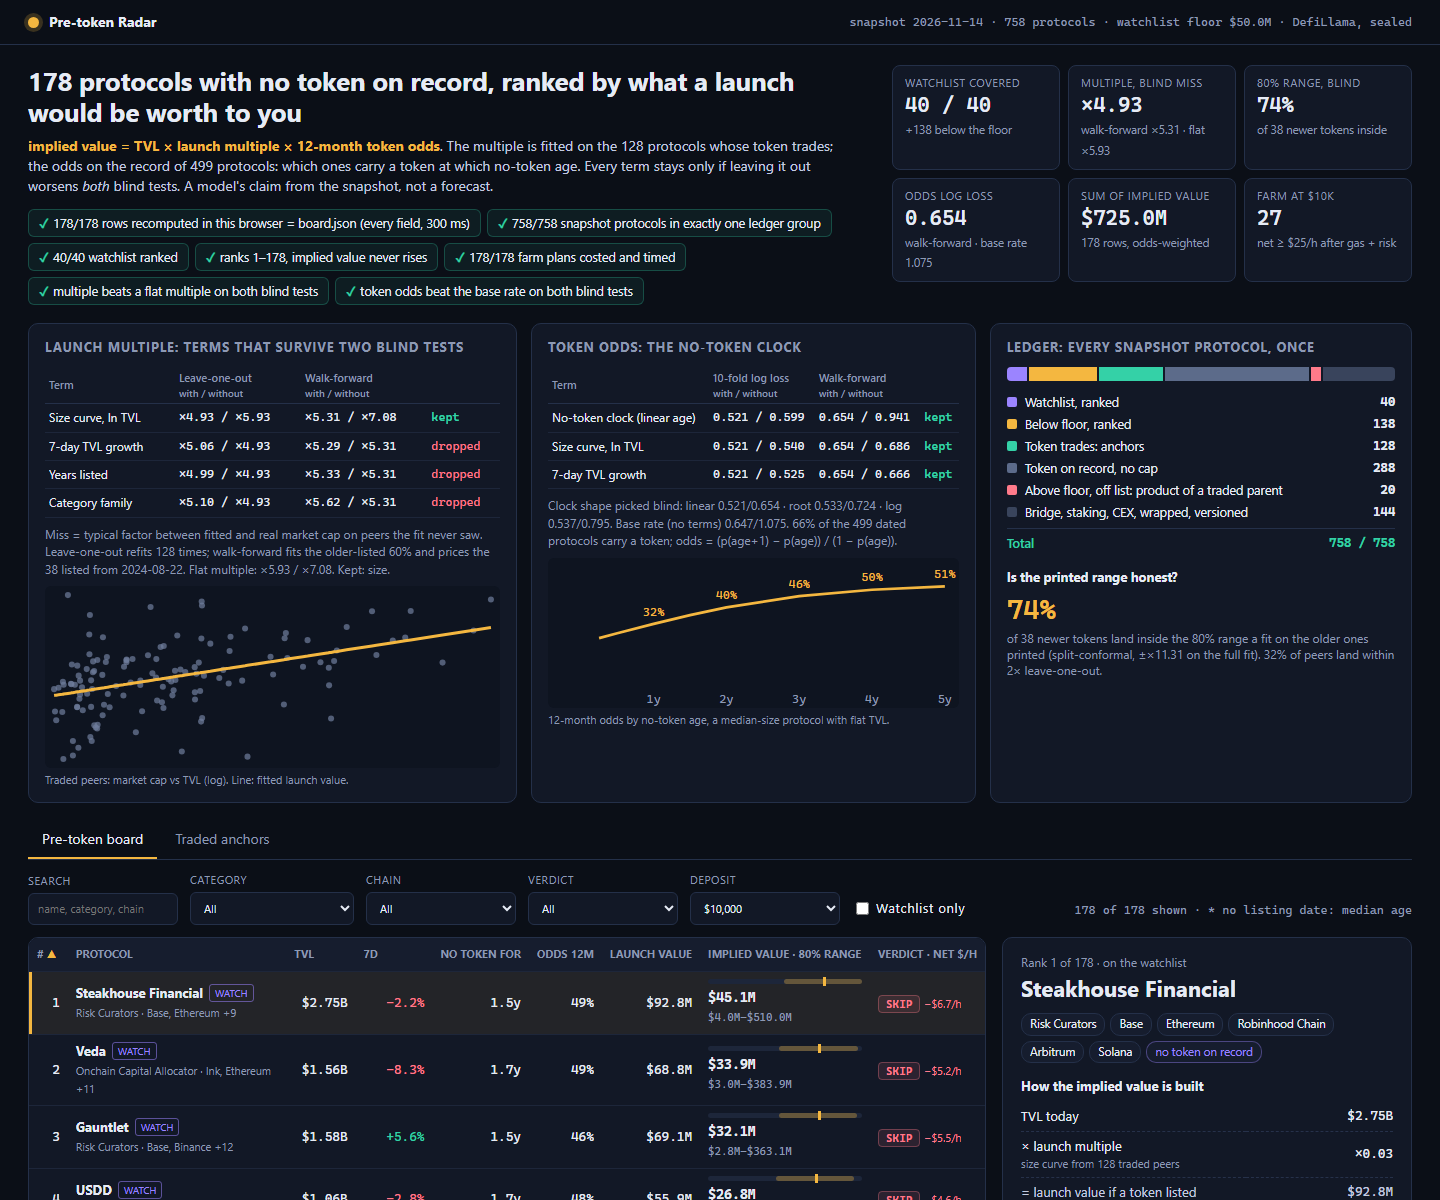
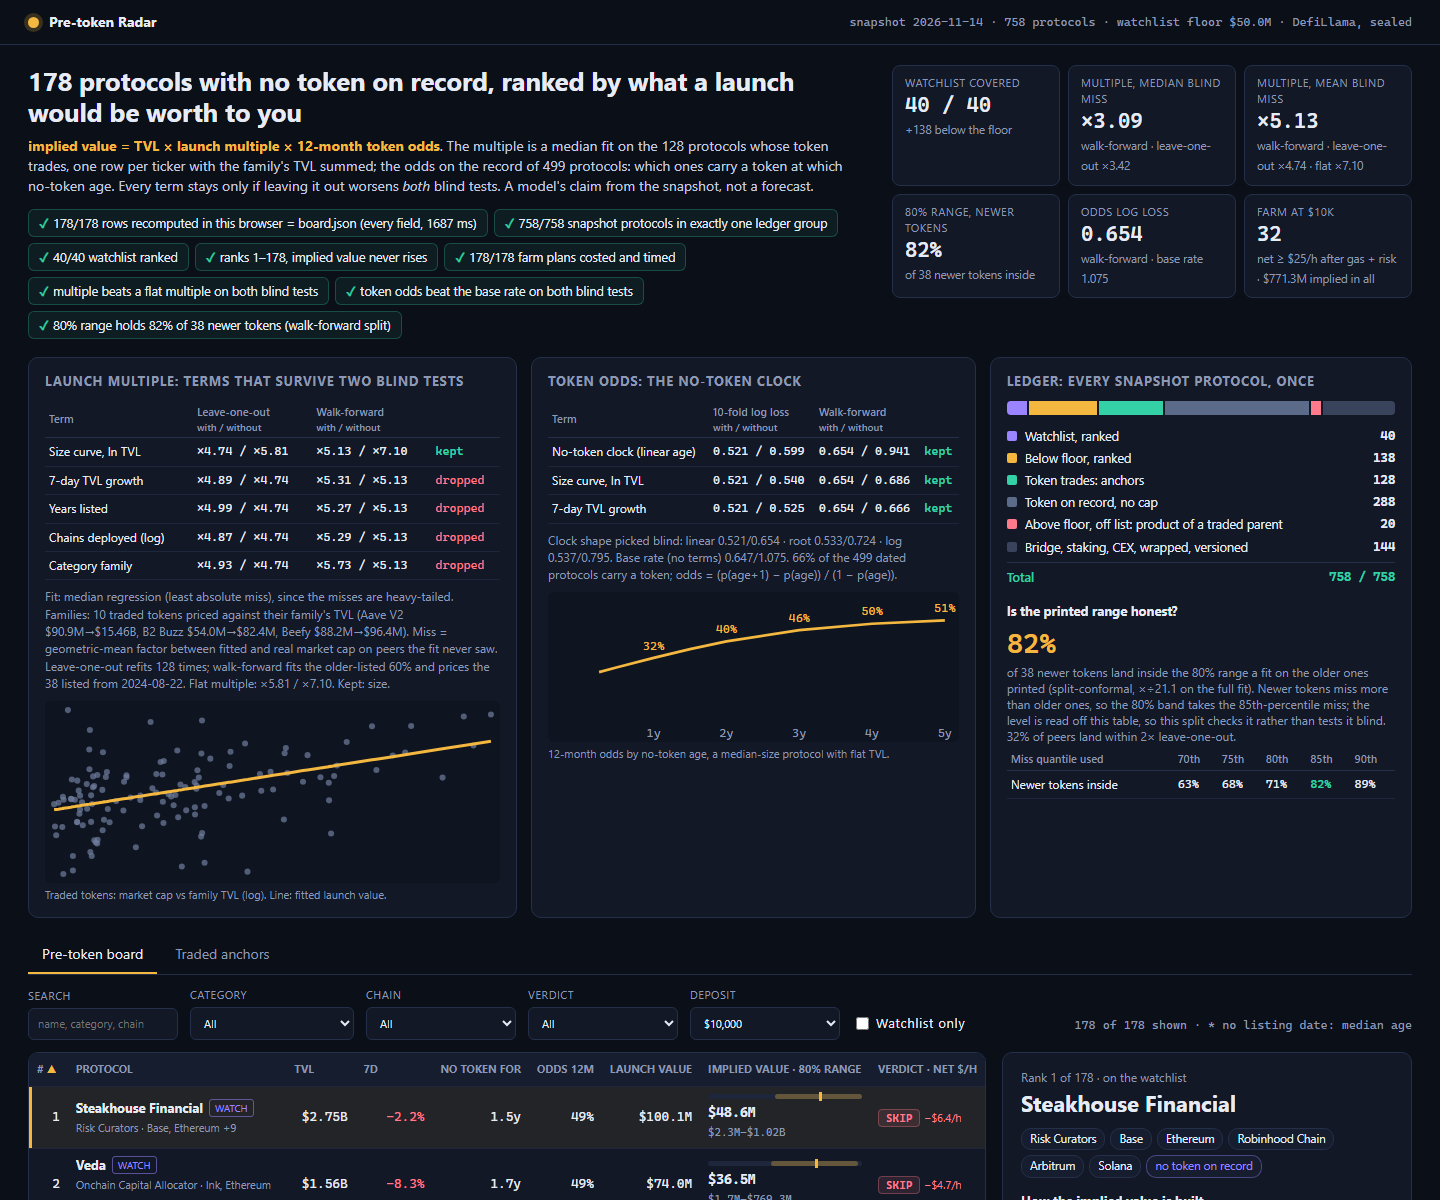
v5: median fit of the launch multiple, one row per ticker with family TVL summed; chains term tested; 80% band calibrated for drift to newer tokens with its coverage table; median and mean held-out miss on the cover

diff --git a/dashboard/app.js b/dashboard/app.js
@@ -27,31 +27,32 @@
     [plans === n, `${plans}/${n} farm plans costed and timed`],
     [v.final[0] < v.flat[0] && v.final[1] < v.flat[1], `multiple beats a flat multiple on both blind tests`],
     [o.final[0] < o.flat[0] && o.final[1] < o.flat[1], `token odds beat the base rate on both blind tests`],
+    [v.cover >= R.P.target, `80% range holds ${pct(v.cover)} of ${v.nTest} newer tokens (walk-forward split)`],
   ];
   $('checks').innerHTML = checks.map(([ok, t]) => `<li class="${ok ? 'ok' : 'bad'}"><b>${ok ? '✓' : '✗'}</b>${esc(t)}</li>`).join('');
 
   $('meta').textContent = `snapshot ${res.asOf} · ${res.total} protocols · watchlist floor ${usd(res.floor)} · DefiLlama, sealed`;
   $('headline').textContent = `${n} protocols with no token on record, ranked by what a launch would be worth to you`;
-  $('formula').innerHTML = `<b>implied value = TVL × launch multiple × 12-month token odds</b>. The multiple is fitted on the ${v.nPeers} protocols whose token trades; the odds on the record of ${o.n} protocols: which ones carry a token at which no-token age. Every term stays only if leaving it out worsens <i>both</i> blind tests. A model's claim from the snapshot, not a forecast.`;
+  $('formula').innerHTML = `<b>implied value = TVL × launch multiple × 12-month token odds</b>. The multiple is a median fit on the ${v.nPeers} protocols whose token trades, one row per ticker with the family's TVL summed; the odds on the record of ${o.n} protocols: which ones carry a token at which no-token age. Every term stays only if leaving it out worsens <i>both</i> blind tests. A model's claim from the snapshot, not a forecast.`;
 
   const ranked = rows.reduce((s, r) => s + r.value, 0);
   const farmN = rows.filter((r) => r.plan.verdict === 'FARM').length;
   const kpi = (k, val, sub) => `<div class="kpi"><span>${k}</span><b>${val}</b><em>${sub}</em></div>`;
   $('kpis').innerHTML = [
     kpi('Watchlist covered', `${watchRanked} / ${res.watchTotal}`, `+${n - watchRanked} below the floor`),
-    kpi('Multiple, blind miss', x2(v.final[0]), `walk-forward ${x2(v.final[1])} · flat ${x2(v.flat[0])}`),
-    kpi('80% range, blind', pct(v.cover), `of ${v.nTest} newer tokens inside`),
+    kpi('Multiple, median blind miss', `${x2(v.median.wf)}`, `walk-forward · leave-one-out ${x2(v.median.loo)}`),
+    kpi('Multiple, mean blind miss', x2(v.final[1]), `walk-forward · leave-one-out ${x2(v.final[0])} · flat ${x2(v.flat[1])}`),
+    kpi('80% range, newer tokens', pct(v.cover), `of ${v.nTest} newer tokens inside`),
     kpi('Odds log loss', o.final[1].toFixed(3), `walk-forward · base rate ${o.flat[1].toFixed(3)}`),
-    kpi('Sum of implied value', usd(ranked), `${n} rows, odds-weighted`),
-    kpi('FARM at $10k', `${farmN}`, `net ≥ $${R.P.farmRate}/h after gas + risk`),
+    kpi('FARM at $10k', `${farmN}`, `net ≥ $${R.P.farmRate}/h after gas + risk · ${usd(ranked)} implied in all`),
   ].join('');
 
   // ---- evidence cards ----
-  const termName = { size: 'Size curve, ln TVL', growth: '7-day TVL growth', age: 'Years listed', family: 'Category family', clock: `No-token clock (${o.shape} age)` };
+  const termName = { size: 'Size curve, ln TVL', growth: '7-day TVL growth', age: 'Years listed', chains: 'Chains deployed (log)', family: 'Category family', clock: `No-token clock (${o.shape} age)` };
   const tbl = (t, fmt, heads) => `<table class="mini"><tr><th>Term</th><th>${heads[0]}<small>with / without</small></th><th>${heads[1]}<small>with / without</small></th><th></th></tr>${t.map((r) => `<tr><td>${termName[r.term]}</td><td>${fmt(r.with[0])} / ${fmt(r.without[0])}</td><td>${fmt(r.with[1])} / ${fmt(r.without[1])}</td><td class="${r.kept ? 'kept' : 'drop'}">${r.kept ? 'kept' : 'dropped'}</td></tr>`).join('')}</table>`;
   $('card-value').innerHTML = `<h2>Launch multiple: terms that survive two blind tests</h2>
     ${tbl(v.table, x2, ['Leave-one-out', 'Walk-forward'])}
-    <p class="note">Miss = typical factor between fitted and real market cap on peers the fit never saw. Leave-one-out refits ${v.nPeers} times; walk-forward fits the older-listed 60% and prices the ${v.nTest} listed from ${v.cutDate}. Flat multiple: ${x2(v.flat[0])} / ${x2(v.flat[1])}. Kept: ${v.kept.join(', ') || 'none'}.</p>
+    <p class="note">Fit: median regression (least absolute miss), since the misses are heavy-tailed. Families: ${v.merged.length} traded tokens priced against their family's TVL (${v.merged.slice(0, 3).map((m) => `${esc(m.name)} ${usd(m.own)}→${usd(m.fam)}`).join(', ')}). Miss = geometric-mean factor between fitted and real market cap on peers the fit never saw. Leave-one-out refits ${v.nPeers} times; walk-forward fits the older-listed 60% and prices the ${v.nTest} listed from ${v.cutDate}. Flat multiple: ${x2(v.flat[0])} / ${x2(v.flat[1])}. Kept: ${v.kept.join(', ') || 'none'}.</p>
     ${scatter()}`;
   $('card-odds').innerHTML = `<h2>Token odds: the no-token clock</h2>
     ${tbl(o.table, (x) => x.toFixed(3), ['10-fold log loss', 'Walk-forward'])}
@@ -63,15 +64,16 @@
     <div class="stack">${G.map(([k, , c]) => `<i style="flex:${res.groups[k] || 0};background:var(${c})"></i>`).join('')}</div>
     <ul class="legend">${G.map(([k, t, c]) => `<li><i style="background:var(${c})"></i>${t}<b>${res.groups[k] || 0}</b></li>`).join('')}<li class="sum">Total<b>${ledger} / ${res.total}</b></li></ul>
     <h3>Is the printed range honest?</h3>
-    <p class="big">${pct(v.cover)} <small>of ${v.nTest} newer tokens land inside the 80% range a fit on the older ones printed (split-conformal, ±${x2(Math.exp(v.q))} on the full fit). ${pct(v.within2)} of peers land within 2× leave-one-out.</small></p>`;
+    <p class="big">${pct(v.cover)} <small>of ${v.nTest} newer tokens land inside the 80% range a fit on the older ones printed (split-conformal, ×÷${Math.exp(v.q).toFixed(1)} on the full fit). Newer tokens miss more than older ones, so the 80% band takes the ${Math.round(v.bandLevel * 100)}th-percentile miss; the level is read off this table, so this split checks it rather than tests it blind. ${pct(v.within2)} of peers land within 2× leave-one-out.</small></p>
+    <table class="mini"><tr><th>Miss quantile used</th>${v.coverCurve.map((c) => `<th>${Math.round(c.l * 100)}th</th>`).join('')}</tr><tr><td>Newer tokens inside</td>${v.coverCurve.map((c) => `<td class="${c.l === v.bandLevel ? 'kept' : ''}">${pct(c.c)}</td>`).join('')}</tr></table>`;
 
   function scatter() {
-    const P = res.peers, W = 300, H = 120, lx = (t) => Math.log10(t), xs = P.map((p) => lx(p.tvl)), ys = P.map((p) => lx(p.mcap));
+    const P = res.peers, W = 300, H = 120, lx = (t) => Math.log10(t), xs = P.map((p) => lx(p.famTvl)), ys = P.map((p) => lx(p.mcap));
     const [x0, x1, y0, y1] = [Math.min(...xs), Math.max(...xs), Math.min(...ys), Math.max(...ys)];
     const sx = (x) => 6 + ((x - x0) / (x1 - x0)) * (W - 12), sy = (y) => H - 6 - ((y - y0) / (y1 - y0)) * (H - 12);
     const dots = P.map((p, i) => `<circle cx="${sx(xs[i]).toFixed(1)}" cy="${sy(ys[i]).toFixed(1)}" r="2" class="pd"/>`).join('');
-    const fit = P.map((p, i) => [sx(xs[i]), sy(lx(p.tvl * p.fit))]).sort((a, b) => a[0] - b[0]);
-    return `<svg viewBox="0 0 ${W} ${H}" class="chart" role="img" aria-label="Market cap against TVL for traded peers">${dots}<polyline points="${fit.map((q) => q.map((z) => z.toFixed(1)).join(',')).join(' ')}" class="fl"/></svg><p class="cap">Traded peers: market cap vs TVL (log). Line: fitted launch value.</p>`;
+    const fit = P.map((p, i) => [sx(xs[i]), sy(lx(p.famTvl * p.fit))]).sort((a, b) => a[0] - b[0]);
+    return `<svg viewBox="0 0 ${W} ${H}" class="chart" role="img" aria-label="Market cap against TVL for traded peers">${dots}<polyline points="${fit.map((q) => q.map((z) => z.toFixed(1)).join(',')).join(' ')}" class="fl"/></svg><p class="cap">Traded tokens: market cap vs family TVL (log). Line: fitted launch value.</p>`;
   }
   function curve() {
     const C = o.curve, W = 300, H = 110, top = Math.max(...C.map((c) => c.h)) * 1.15;
@@ -125,7 +127,7 @@
   function renderPeers() {
     const P = [...res.peers].sort((a, b) => b.mcap - a.mcap);
     $('count').textContent = `${P.length} protocols whose token trades: the anchors of the multiple`;
-    $('table').innerHTML = `<thead><tr><th>Protocol</th><th>TVL</th><th>Market cap</th><th>Real multiple</th><th>Fitted</th><th>Miss</th></tr></thead><tbody>${P.map((p) => `<tr><td><b>${esc(p.name)}</b></td><td class="num">${usd(p.tvl)}</td><td class="num">${usd(p.mcap)}</td><td class="num">${x2(p.mult)}</td><td class="num">${x2(p.fit)}</td><td class="num">${x2(Math.exp(Math.abs(Math.log(p.mult / p.fit))))}</td></tr>`).join('')}</tbody>`;
+    $('table').innerHTML = `<thead><tr><th>Protocol</th><th>Family TVL</th><th>Market cap</th><th>Real multiple</th><th>Fitted</th><th>Miss</th></tr></thead><tbody>${P.map((p) => `<tr><td><b>${esc(p.name)}</b></td><td class="num">${usd(p.famTvl)}</td><td class="num">${usd(p.mcap)}</td><td class="num">${x2(p.mult)}</td><td class="num">${x2(p.fit)}</td><td class="num">${x2(Math.exp(Math.abs(Math.log(p.mult / p.fit))))}</td></tr>`).join('')}</tbody>`;
     $('detail').innerHTML = `<h2>Why anchors</h2><p class="note">A token that trades gives a market cap for its TVL. These ${P.length} are the only rows the multiple is fitted on; none of them is ranked on the board, which holds protocols with no token on record.</p>`;
   }
 

diff --git a/dashboard/model.js b/dashboard/model.js
@@ -2,7 +2,7 @@
    page calls run() again in the browser on the raw snapshot, then compares every row with board.json.
 
    implied value = TVL x launch multiple x 12-month token odds
-     launch multiple: ridge fit of ln(market cap / TVL) on the protocols whose token trades
+     launch multiple: median fit of ln(market cap / family TVL) on the traded tokens, one row per ticker
      token odds:      logistic "no-token clock" fitted on which protocols carry a token at which age
    Every term is kept only when BOTH blind tests keep it: leaving it out must worsen the held-out miss
    on leave-one-out (10-fold for the odds) AND on walk-forward (fit on the older-listed, price the newer). */
@@ -10,7 +10,8 @@
   'use strict';
 
   const P = {
-    ridge: 2, oddsRidge: 1, wfShare: 0.6, target: 0.8, folds: 10,
+    ladRidge: 1, ladSteps: 25, oddsRidge: 1, wfShare: 0.6, target: 0.8, folds: 10,
+    bandLevel: 0.85,   // the 80% band takes the 85th-percentile leave-one-out miss: newer tokens miss more (drift)
     userShare: 0.08,   // share of a launch's supply that goes to users who supplied TVL (assumption)
     riskYear: 0.003,   // expected loss a year on a deposit (exploit base rate); doubled below the floor
     monitorMin: 120,   // 12 monthly checks of 10 minutes
@@ -35,6 +36,9 @@
   const clamp = (x, lo, hi) => Math.min(hi, Math.max(lo, x));
   const sigmoid = (z) => 1 / (1 + Math.exp(-z));
   const dot = (a, b) => a.reduce((s, x, i) => s + x * b[i], 0);
+
+  /** One key per token: the ticker, else the CoinGecko id. Protocols sharing it are one family. */
+  const ticker = (p) => (p.symbol || p.gecko_id || '').toUpperCase() || null;
 
   function family(cat) {
     for (const [f, re] of FAMILIES) if (cat && re.test(cat)) return f;
@@ -77,11 +81,17 @@
     return { A, b };
   }
 
-  /** Ridge regression on standardised terms; the intercept is not penalised. */
-  function fitLinear(train, cols) {
-    const row = scaler(train, cols), X = train.map(row);
-    const { A, b } = normal(X, train.map(() => 1), train.map((r) => r.y), P.ridge);
-    const beta = solve(A, b);
+  /** Median (least-absolute-miss) regression by reweighting: the multiple's misses are heavy-tailed
+      (bridges near x0.001, tiny tokens above x100), so a squared-miss fit chases the tails. */
+  function fitMedian(train, cols) {
+    const row = scaler(train, cols), X = train.map(row), ys = train.map((r) => r.y);
+    let beta = new Array(X[0].length).fill(0);
+    beta[0] = [...ys].sort((a, b) => a - b)[ys.length >> 1];
+    for (let it = 0; it < P.ladSteps; it++) {
+      const w = X.map((x, n) => 1 / Math.max(Math.abs(ys[n] - dot(beta, x)), 0.01));
+      const { A, b } = normal(X, w, ys, P.ladRidge);
+      beta = solve(A, b);
+    }
     return { beta, cols, predict: (r) => dot(beta, row(r)) };
   }
 
@@ -115,7 +125,7 @@
 
   /** Held-out scores of one term set: [first test, walk-forward]. */
   function heldOut(kind, rows, cols) {
-    const fit = kind === 'value' ? fitLinear : fitLogit, loss = kind === 'value' ? absMiss : logLoss;
+    const fit = kind === 'value' ? fitMedian : fitLogit, loss = kind === 'value' ? absMiss : logLoss;
     let first = 0;
     if (kind === 'value') {
       rows.forEach((r, i) => { first += loss(fit(rows.filter((_, j) => j !== i), cols), r); });
@@ -190,7 +200,7 @@
   function features(p, asOf, ageFill) {
     const age = p.listed_at ? Math.max((asOf - Date.parse(p.listed_at)) / YEAR, 0.05) : ageFill;
     const fam = family(p.category);
-    const f = atAge({ size: Math.log(p.tvl_usd), growth: clamp(p.change_7d ?? 0, -30, 30) / 100 }, age);
+    const f = atAge({ size: Math.log(p.tvl_usd), growth: clamp(p.change_7d ?? 0, -30, 30) / 100, chains: Math.log((p.chains || []).length || 1) }, age);
     for (const [name] of FAMILIES) f['f_' + name] = fam === name ? 1 : 0;
     return { f, fam };
   }
@@ -247,20 +257,28 @@
     const ageFill = ages[Math.floor(ages.length / 2)];
     for (const x of all) Object.assign(x, features(x.p, asOf, ageFill));
 
-    // 1. Launch multiple, fitted on the traded peers.
-    const peers = all.filter((x) => x.group === 'traded')
-      .map((x) => ({ slug: x.p.slug, listed: x.p.listed_at, f: x.f, y: Math.log(x.p.mcap_usd / x.p.tvl_usd), x }));
+    // 1. Launch multiple, fitted on the traded peers, one row per ticker. A token's market cap prices
+    //    its whole family (Aave's cap covers V1-V4 and Horizon), so the peer's TVL is the family's sum.
+    const famTvl = {};
+    for (const x of all) { const k = ticker(x.p); if (k) famTvl[k] = (famTvl[k] || 0) + x.p.tvl_usd; }
+    const peers = all.filter((x) => x.group === 'traded').map((x) => {
+      const T = famTvl[ticker(x.p)] || x.p.tvl_usd;
+      return { slug: x.p.slug, listed: x.p.listed_at, f: { ...x.f, size: Math.log(T) }, y: Math.log(x.p.mcap_usd / T), famTvl: T, x };
+    });
+    const merged = peers.filter((r) => r.famTvl > r.x.p.tvl_usd * 1.01).map((r) => ({ name: r.x.p.name, own: r.x.p.tvl_usd, fam: r.famTvl }));
     const famCols = FAMILIES.map(([n]) => 'f_' + n);
-    const vSel = select('value', peers, { size: ['size'], growth: ['growth'], age: ['age'], family: famCols }, []);
+    const vSel = select('value', peers, { size: ['size'], growth: ['growth'], age: ['age'], chains: ['chains'], family: famCols }, []);
     const flat = heldOut('value', peers, []);
-    const vFit = fitLinear(peers, vSel.cols);
-    const loo = peers.map((r, i) => Math.abs(fitLinear(peers.filter((_, j) => j !== i), vSel.cols).predict(r) - r.y)).sort((a, b) => a - b);
-    const q = quantile(loo, P.target);
-    const wf = wfSplit(peers), wfFit = fitLinear(wf.train, vSel.cols);
-    const wfLoo = wf.train.map((r, i) => Math.abs(fitLinear(wf.train.filter((_, j) => j !== i), vSel.cols).predict(r) - r.y)).sort((a, b) => a - b);
-    const qOld = quantile(wfLoo, P.target);
-    const inside = wf.test.filter((r) => Math.abs(wfFit.predict(r) - r.y) <= qOld).length;
+    const vFit = fitMedian(peers, vSel.cols);
+    const loo = peers.map((r, i) => Math.abs(fitMedian(peers.filter((_, j) => j !== i), vSel.cols).predict(r) - r.y)).sort((a, b) => a - b);
+    const q = quantile(loo, P.bandLevel);
+    const wf = wfSplit(peers), wfFit = fitMedian(wf.train, vSel.cols);
+    const wfLoo = wf.train.map((r, i) => Math.abs(fitMedian(wf.train.filter((_, j) => j !== i), vSel.cols).predict(r) - r.y)).sort((a, b) => a - b);
+    const wfMiss = wf.test.map((r) => Math.abs(wfFit.predict(r) - r.y));
+    const coverAt = (lvl) => wfMiss.filter((e) => e <= quantile(wfLoo, lvl)).length / (wfMiss.length || 1);
+    const inside = wfMiss.filter((e) => e <= quantile(wfLoo, P.bandLevel)).length;
     const within2 = loo.filter((e) => e <= Math.log(2)).length;
+    const median = { loo: Math.exp(quantile(loo, 0.5)), wf: Math.exp(quantile([...wfMiss].sort((a, b) => a - b), 0.5)) };
 
     // 2. Token odds: which protocols carry a token at which no-token age, from the record of every
     //    protocol that is not set aside. The clock (no-token age) turns a share into 12-month odds:
@@ -299,12 +317,13 @@
     for (const x of all) groups[x.group] = (groups[x.group] || 0) + 1;
     return {
       asOf: s.as_of, floor: s.floor_usd, total: s.protocols.length, watchTotal: s.watchlist.length, groups, P,
-      value: { table: vSel.table, kept: vSel.active, final: vSel.final, flat, q, cover: inside / (wf.test.length || 1), nTest: wf.test.length,
+      value: { table: vSel.table, kept: vSel.active, final: vSel.final, flat, q, cover: inside / (wf.test.length || 1), nTest: wf.test.length, median, merged,
+        coverCurve: [0.7, 0.75, 0.8, 0.85, 0.9].map((l) => ({ l, c: coverAt(l) })), bandLevel: P.bandLevel, nTickers: new Set(peers.map((r) => ticker(r.x.p))).size,
         nPeers: peers.length, cutDate: wf.cutDate, within2: within2 / peers.length, beta: vFit.beta, cols: vFit.cols },
       odds: { table: oSel.table, kept: oSel.active, final: oSel.final, flat: oFlat, n: pool.length, base: mean(pool.map((r) => r.y)), useClock,
         shape, shapes, curve: [0.25, 0.5, 1, 1.5, 2, 3, 4, 5].map((a) => ({ a, h: odds12(atAge(typical, a)) })) },
       rows: ranked,
-      peers: peers.map((r) => ({ slug: r.slug, name: r.x.p.name, tvl: r.x.p.tvl_usd, mcap: r.x.p.mcap_usd, fit: Math.exp(vFit.predict(r)), mult: Math.exp(r.y) })),
+      peers: peers.map((r) => ({ slug: r.slug, name: r.x.p.name, tvl: r.x.p.tvl_usd, mcap: r.x.p.mcap_usd, fit: Math.exp(vFit.predict(r)), mult: Math.exp(r.y), famTvl: r.famTvl })),
     };
   }
 

diff --git a/README.md b/README.md
@@ -11,15 +11,17 @@ token, by what a launch would be worth, and gives each one a costed farm plan wi
 
     implied value = TVL x launch multiple x 12-month token odds
 
-- **Launch multiple**: a ridge fit of ln(market cap / TVL) on the 128 protocols whose token trades.
-  Candidate terms are the size curve (ln TVL), 7-day TVL growth, years listed and the category family.
+- **Launch multiple**: a median (least-absolute-miss) fit of ln(market cap / TVL) on the 128 traded tokens,
+  one row per ticker: a token's cap prices its whole family, so its TVL is the family's sum (Aave V1-V4,
+  Horizon). Candidate terms: size curve (ln TVL), 7-day TVL growth, years listed, chains, category family.
+  Held-out miss: x4.74 leave-one-out / x5.13 walk-forward (geometric mean), x3.42 / x3.09 median.
 - **Token odds**: a logistic "no-token clock" fitted on 499 dated protocols, which ones carry a token
   at which age, with size and growth. The 12-month odds are (p(age + 1) - p(age)) / (1 - p(age)).
   The clock's shape (linear, square root or log age) is picked on the blind tests.
 - **Term selection**: backward elimination. A term stays only if leaving it out worsens BOTH blind tests:
   leave-one-out (10-fold for the odds) and walk-forward (fit the older-listed 60%, price the newer 40%).
-- **Range**: split-conformal 80% band from the leave-one-out misses; its coverage is measured blind on
-  the walk-forward split.
+- **Range**: split-conformal 80% band. Newer tokens miss more than older ones, so it takes the 85th-percentile
+  leave-one-out miss; on the walk-forward split 82% of the 38 newer tokens land inside (the 80th covers 71%).
 - **Farm verdicts**: at a chosen deposit, expected drop = launch value x 8% to users x your TVL share x
   odds, less gas (per chain) and a risk cost; FARM at $25/h net or more, THIN when net is positive, else
   SKIP. Each plan has six steps with their cost and time, the break-even deposit and the deposit that
